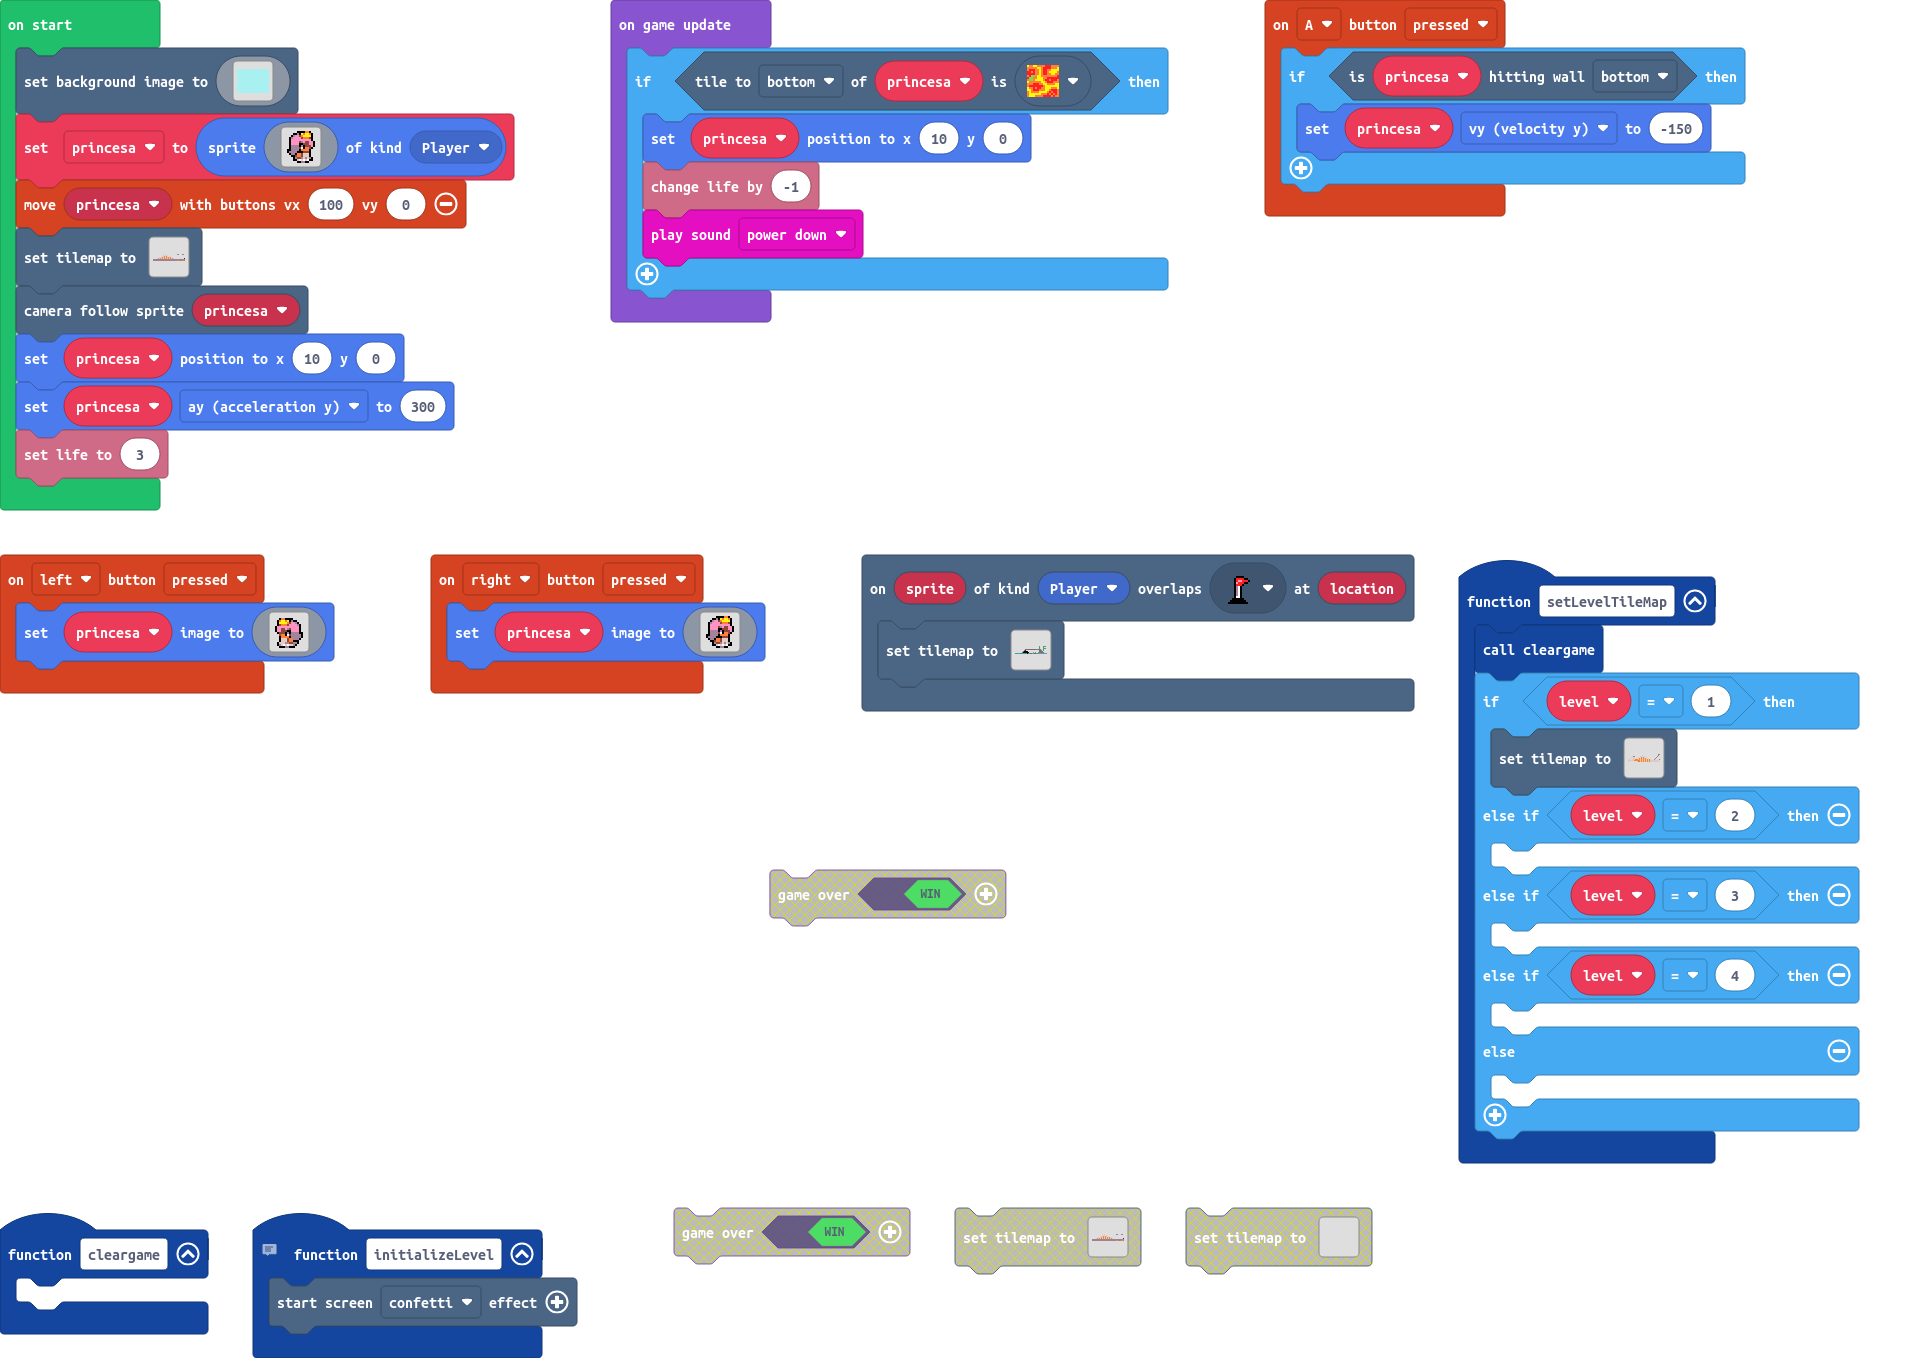
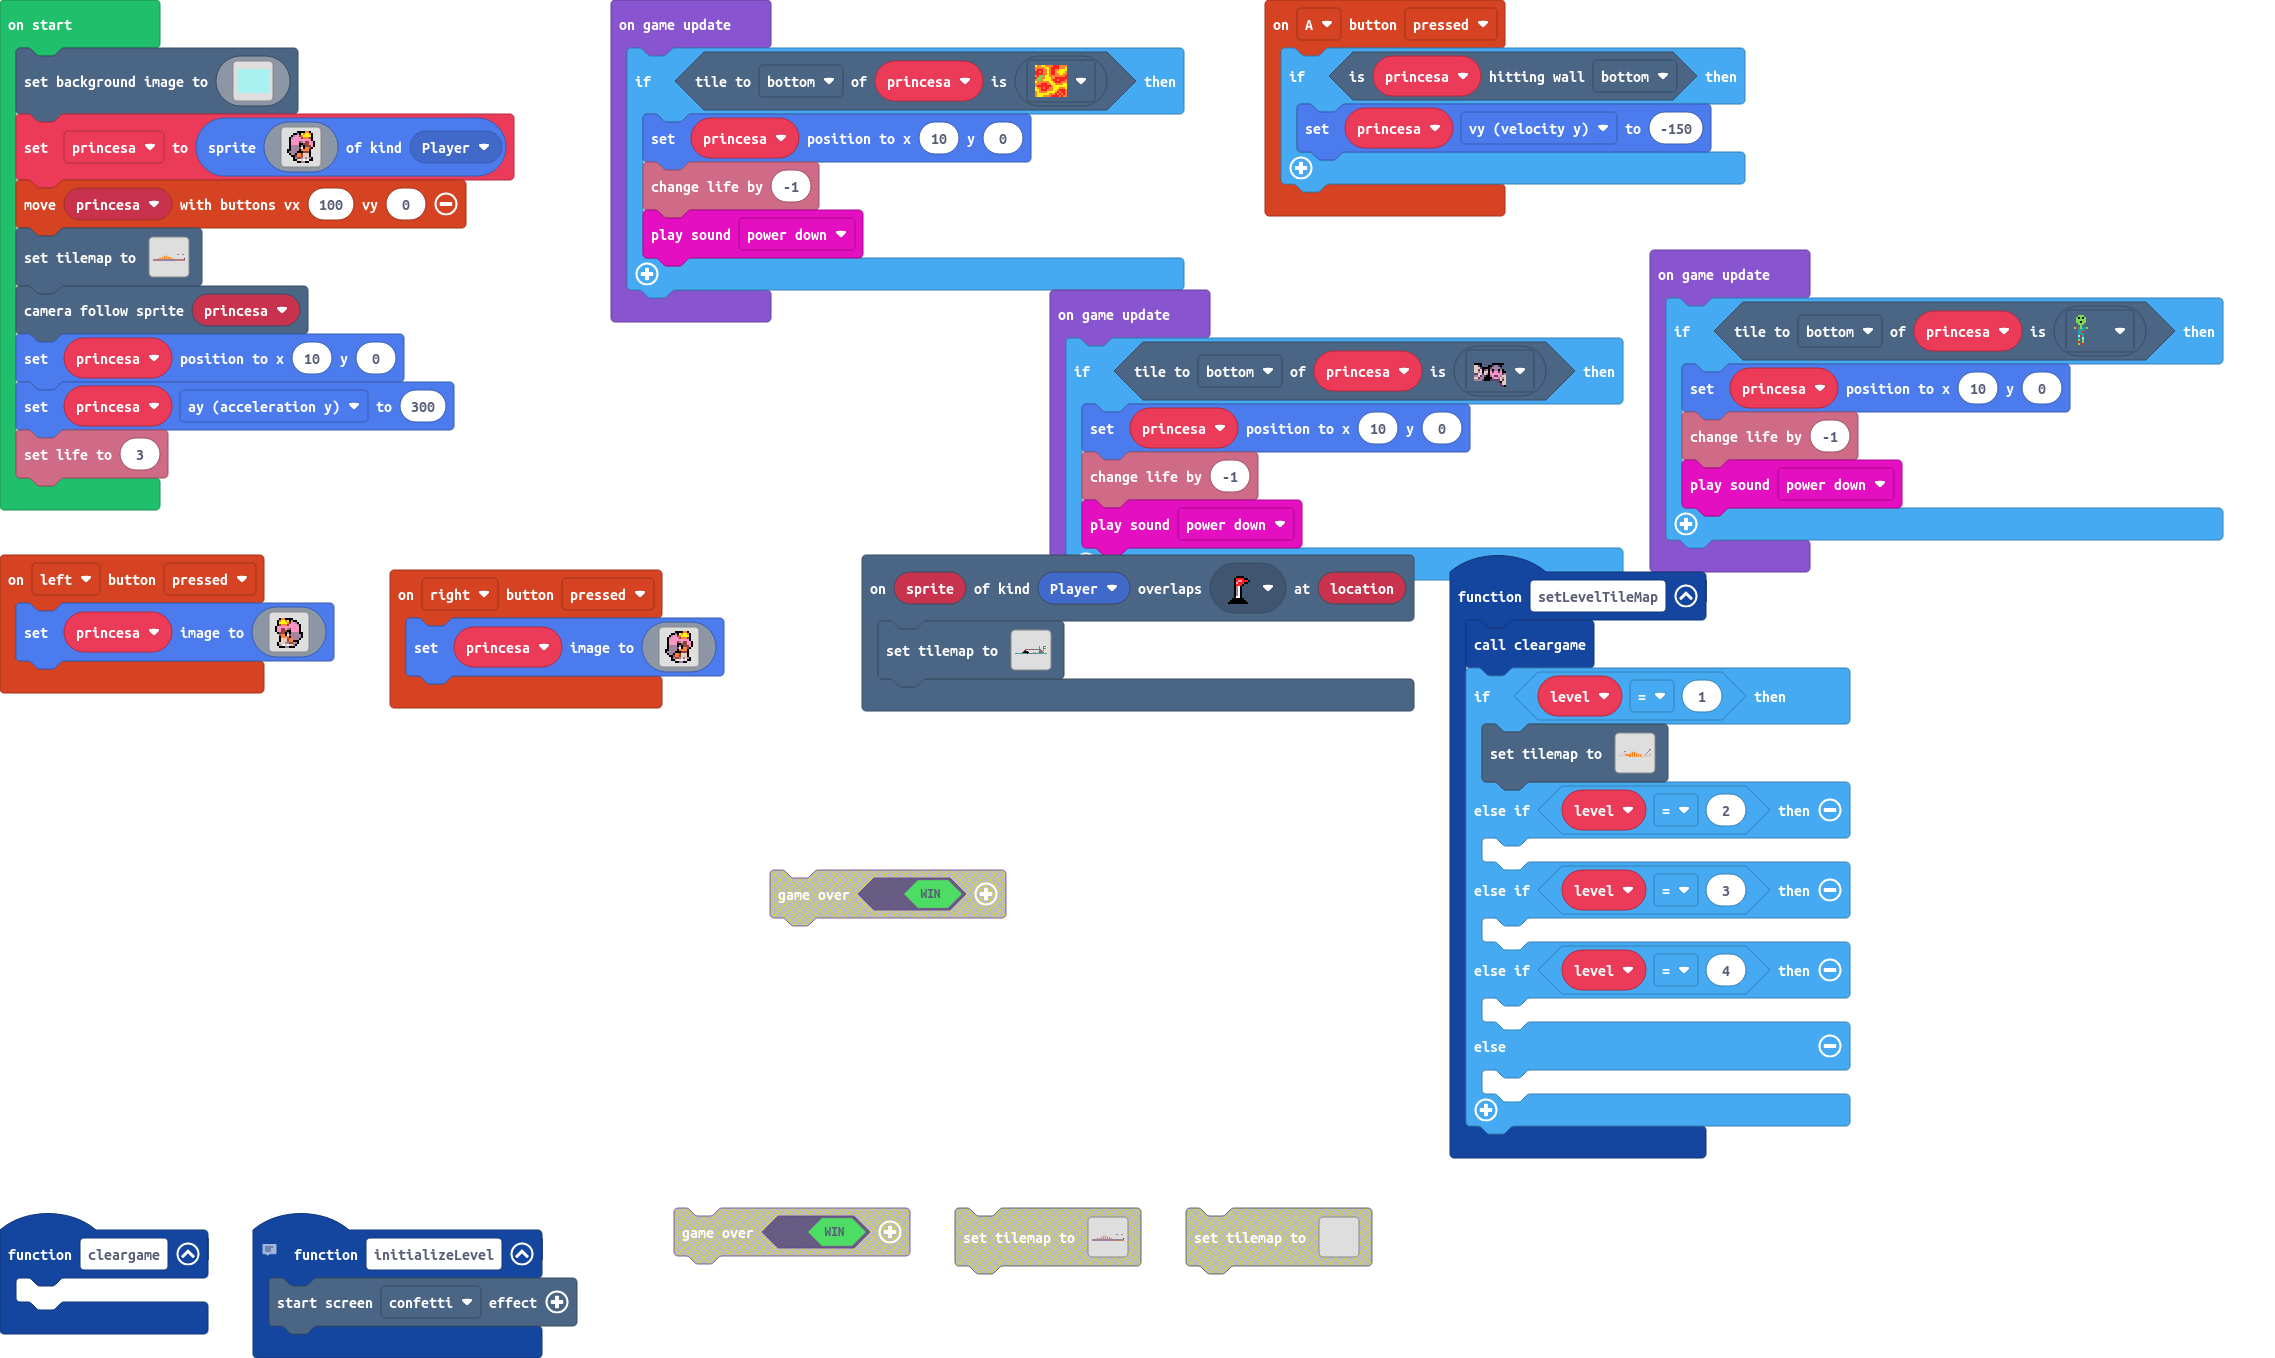
mejore mi segundo nivel

diff --git a/tilemap.g.ts b/tilemap.g.ts
@@ -516,10 +516,10 @@ namespace myTiles {
 . . . . . . . . . . . . . . . . . . . . . . . . . . . . . . . . 
 . . . . . . . . . . . . . . . . . . . . . . . . . . . . . . . . 
 . . . . . . . . . . . . . . . . . . . . . . . . 2 . . . . . . . 
-. . . . . . . . . . . . . . . . . . . . 2 . 2 2 2 2 . . . . . . 
-. . . . . . . . . . . . . . . . . . . . . . . . 2 2 2 . . . . . 
-. . . . . . . . . . . . . . . . . . . . . . . . 2 2 2 2 . . . . 
-. . . . . . . . . . . . . . . . . . . . . . . . 2 2 2 2 2 . . . 
+. . . . . . . . . . 2 2 2 2 2 2 2 2 2 2 2 . 2 2 2 2 . . . . . . 
+. . . . . . . . . 2 . . . . . . . . . . . . . . 2 2 2 . . . . . 
+. . . . . . . . 2 2 2 2 2 . . . . . . . . . . . 2 2 2 2 . . . . 
+. . . . . . . 2 2 2 2 2 2 2 . . . . . . . . . . 2 2 2 2 2 . . . 
 2 2 2 2 2 2 2 2 2 2 2 2 2 2 2 . . 2 2 . . 2 2 2 2 2 2 2 2 2 2 2 
 `, [myTiles.transparency16,myTiles.tile12,myTiles.tile11,myTiles.tile13,sprites.castle.tileDarkGrass2,sprites.castle.tileDarkGrass3,sprites.builtin.forestTiles0,sprites.builtin.forestTiles24,sprites.builtin.forestTiles11,sprites.builtin.forestTiles8], TileScale.Sixteen);
         }

diff --git a/main.ts b/main.ts
@@ -222,3 +222,17 @@ game.onUpdate(function () {
         music.powerDown.play()
     }
 })
+game.onUpdate(function () {
+    if (princesa.tileKindAt(TileDirection.Bottom, assets.tile`zombie`)) {
+        princesa.setPosition(10, 0)
+        info.changeLifeBy(-1)
+        music.powerDown.play()
+    }
+})
+game.onUpdate(function () {
+    if (princesa.tileKindAt(TileDirection.Bottom, assets.tile`myTile9`)) {
+        princesa.setPosition(10, 0)
+        info.changeLifeBy(-1)
+        music.powerDown.play()
+    }
+})
